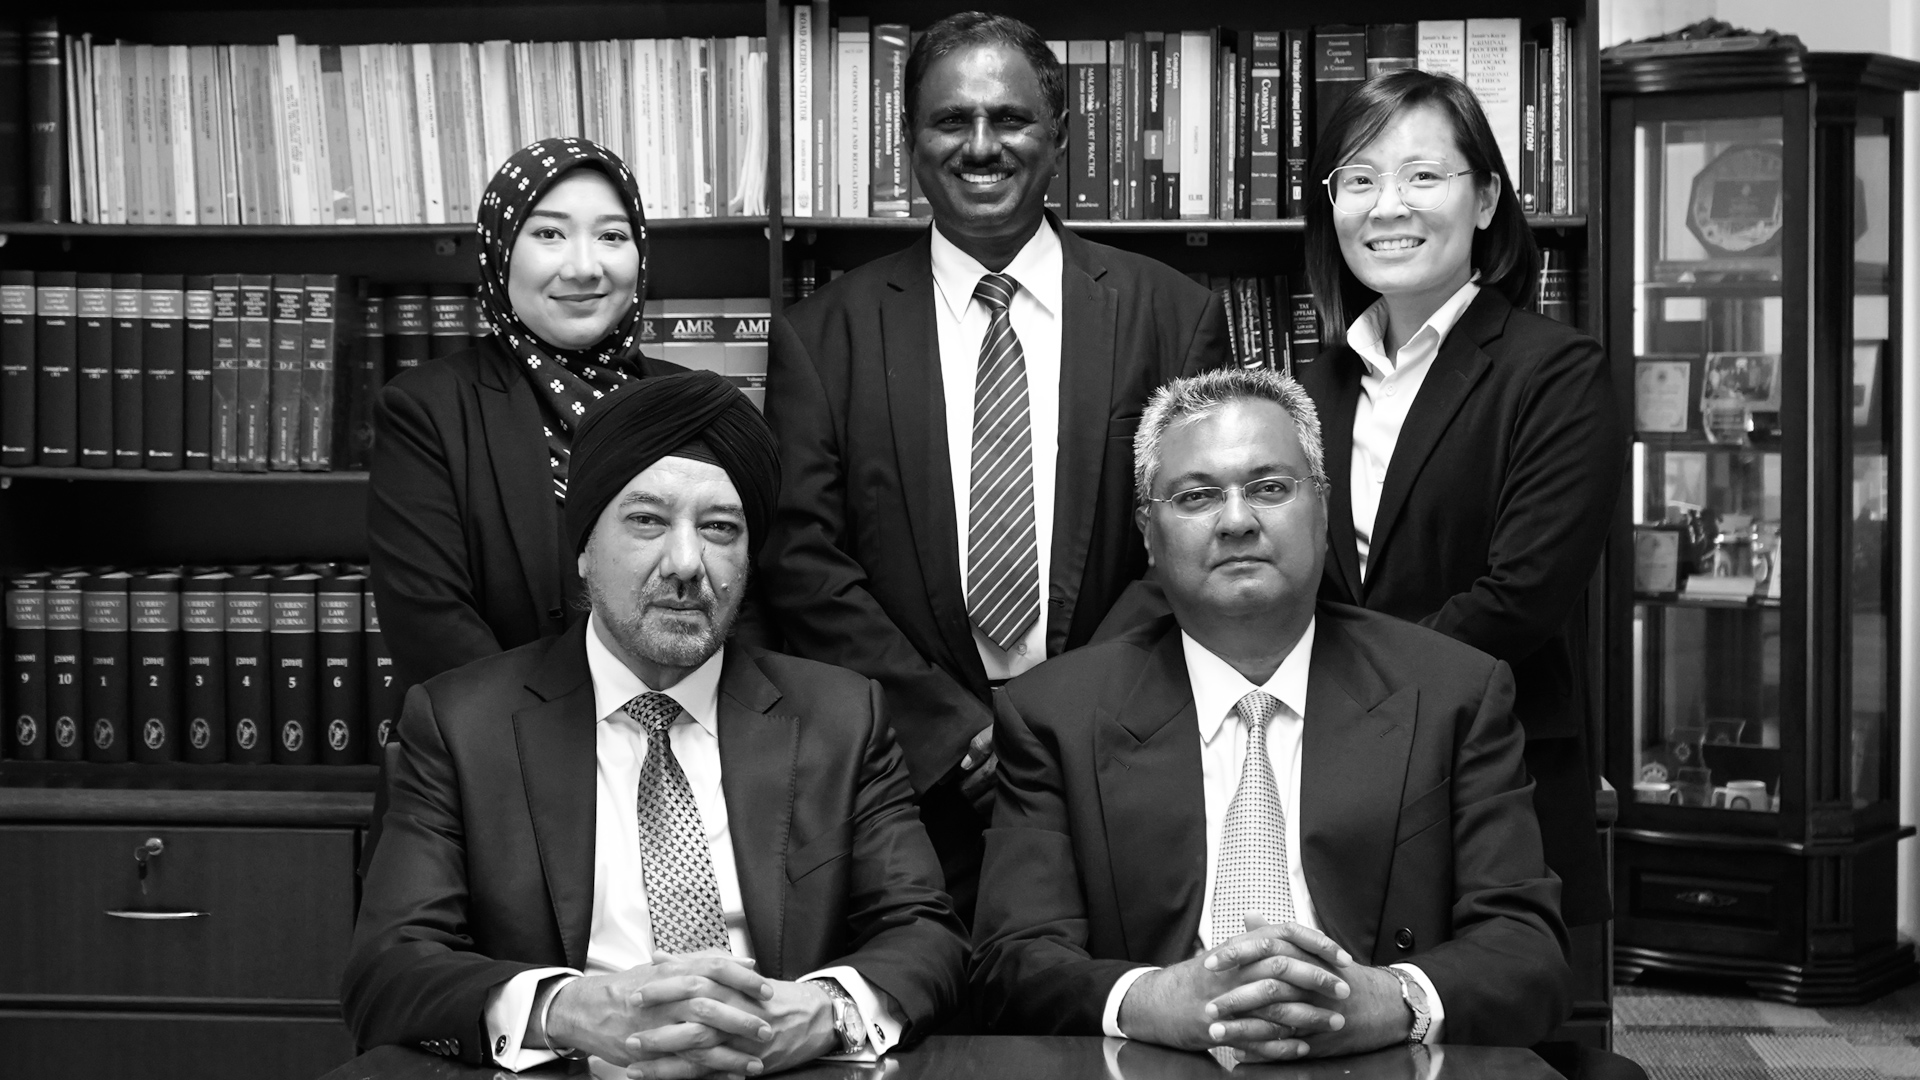
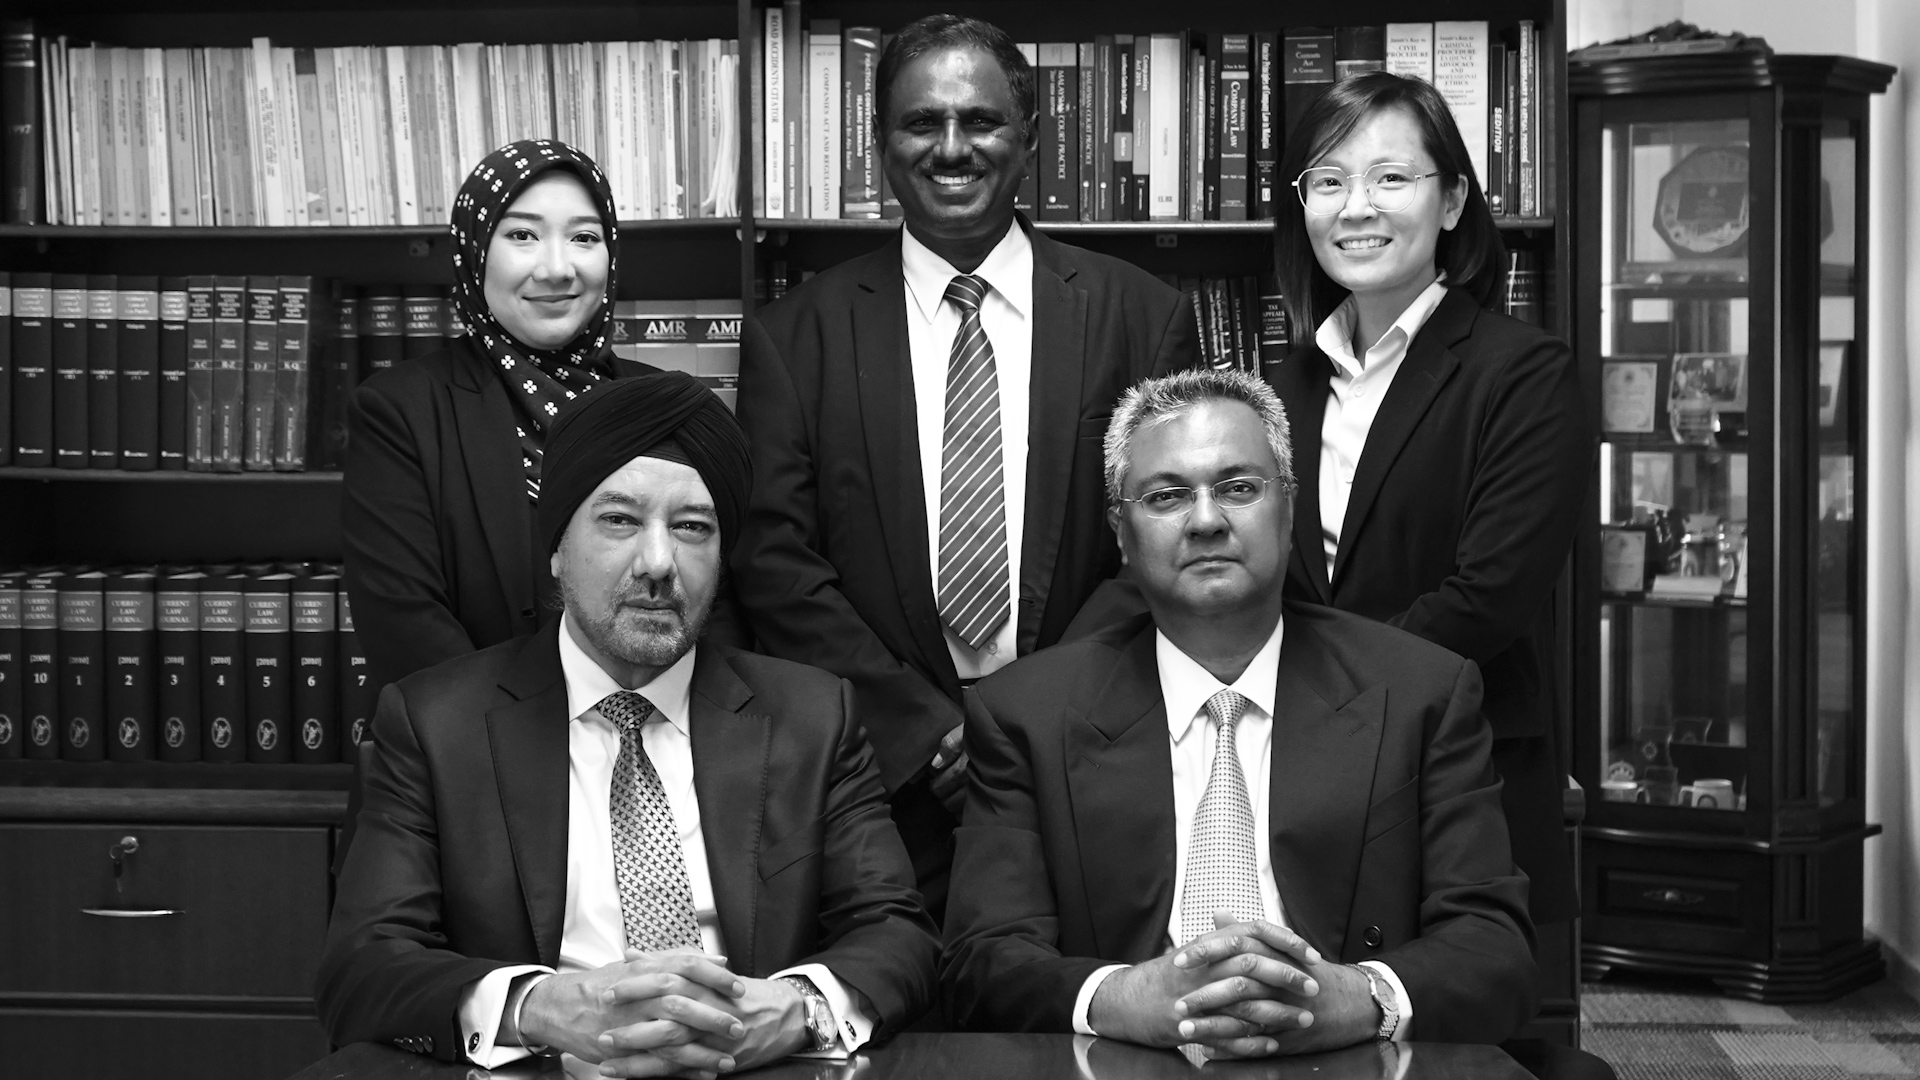
rajpal new images

diff --git a/index.html b/index.html
@@ -6,7 +6,7 @@
   <meta http-equiv="X-UA-Compatible" content="IE=edge">
 
   <title>Rajpal, Firah &amp; Vishnu | Premier Law Firm in Kuala Lumpur</title>
-  <meta name="description" content="Expert criminal lawyer in Kuala Lumpur. Criminal and civil litigation at all levels of court, plus corporate advisory, conveyancing, and probate. Book a Consultation today.">
+  <meta name="description" content="Premier Criminal and Civil litigation lawyers in Kuala Lumpur. Litigation at every level of the Malaysian courts, plus corporate advisory, conveyancing, and probate. Book a Consultation today.">
   <meta name="robots" content="index, follow, max-image-preview:large">
   <meta name="theme-color" content="#1a1a1a">
 
@@ -19,7 +19,7 @@
   <link rel="sitemap" type="application/xml" title="Sitemap" href="https://[yourdomain]/sitemap.xml">
   <meta property="og:type" content="website">
   <meta property="og:title" content="Rajpal, Firah &amp; Vishnu | Premier Law Firm in Kuala Lumpur">
-  <meta property="og:description" content="Expert criminal lawyer in Kuala Lumpur. Criminal and civil litigation at all court levels, plus corporate advisory, conveyancing, and probate. Book a Consultation.">
+  <meta property="og:description" content="Premier Criminal and Civil litigation lawyers at every level of the Malaysian courts. Corporate advisory, conveyancing, and probate. Book a Consultation.">
   <meta property="og:image" content="https://[yourdomain]/assets/og-image.jpg">
   <meta property="og:url" content="https://[yourdomain]/">
   <meta property="og:site_name" content="Rajpal, Firah &amp; Vishnu">
@@ -27,7 +27,7 @@
   <!-- Twitter/X -->
   <meta name="twitter:card" content="summary_large_image">
   <meta name="twitter:title" content="Rajpal, Firah &amp; Vishnu | Premier Law Firm">
-  <meta name="twitter:description" content="Expert criminal lawyer in Kuala Lumpur. Book a Consultation today.">
+  <meta name="twitter:description" content="Premier Criminal and Civil litigation lawyers in Kuala Lumpur. We fight for outcomes that matter.">
   <meta name="twitter:image" content="https://[yourdomain]/assets/og-image.jpg">
 
   <!-- Favicon -->
@@ -189,7 +189,7 @@
       <div class="hero__content container">
         <h1 class="hero__headline">Rajpal<br>Firah<br>Vishnu</h1>
         <p class="hero__subheadline">
-          Premier criminal lawyer. Criminal and civil litigation at every level of the Malaysian courts.
+          Premier Criminal and Civil litigation lawyers at every level of the Malaysian courts.
           We fight for outcomes that matter.
         </p>
         <div class="hero__cta-group">
@@ -211,7 +211,7 @@
         <div class="section-header">
           <h2 class="section-title">How We Can Help</h2>
           <p class="section-subtitle">
-            We are courtroom lawyers. Criminal and civil litigation at every level of the Malaysian courts,
+            We are courtroom lawyers. Criminal and Civil litigation at every level of the Malaysian courts,
             from the Magistrates' and Sessions Courts through the High Court, Court of Appeal, and Federal Court.
           </p>
         </div>

diff --git a/ms/index.html b/ms/index.html
@@ -4,7 +4,7 @@
   <meta charset="UTF-8">
   <meta name="viewport" content="width=device-width, initial-scale=1.0">
   <title>Rajpal, Firah &amp; Vishnu | Firma Guaman Terkemuka di Kuala Lumpur</title>
-  <meta name="description" content="Khidmat guaman pakar di Kuala Lumpur. Rajpal, Firah &amp; Vishnu pakar dalam litigasi sivil, undang-undang korporat, undang-undang keluarga dan konveyans. Tempah perundingan hari ini.">
+  <meta name="description" content="Peguam litigasi Jenayah dan Sivil terkemuka di Kuala Lumpur. Litigasi di setiap peringkat mahkamah Malaysia, serta nasihat korporat, konveyans, dan probet. Tempah perundingan hari ini.">
   <meta name="robots" content="index, follow">
 
   <!-- hreflang: reciprocal links required on every language version -->
@@ -16,7 +16,7 @@
   <!-- Open Graph (Malay) -->
   <meta property="og:type"        content="website">
   <meta property="og:title"       content="Rajpal, Firah &amp; Vishnu | Firma Guaman Terkemuka">
-  <meta property="og:description" content="Khidmat guaman pakar di Kuala Lumpur. Tempah perundingan.">
+  <meta property="og:description" content="Peguam litigasi Jenayah dan Sivil terkemuka di setiap peringkat mahkamah Malaysia. Tempah perundingan.">
   <meta property="og:image"       content="https://[yourdomain]/assets/og-image.jpg">
   <meta property="og:url"         content="https://[yourdomain]/ms/">
   <meta property="og:locale"      content="ms_MY">
@@ -24,7 +24,7 @@
   <!-- Twitter/X -->
   <meta name="twitter:card"        content="summary_large_image">
   <meta name="twitter:title"       content="Rajpal, Firah &amp; Vishnu | Firma Guaman Terkemuka">
-  <meta name="twitter:description" content="Khidmat guaman pakar di Kuala Lumpur. Tempah perundingan hari ini.">
+  <meta name="twitter:description" content="Peguam litigasi Jenayah dan Sivil terkemuka di Kuala Lumpur. Kami berjuang untuk keputusan yang bermakna.">
   <meta name="twitter:image"       content="https://[yourdomain]/assets/og-image.jpg">
 
   <link rel="icon" type="image/png" href="../assets/favicon-gold.png">
@@ -96,7 +96,7 @@
       <div class="hero__content container">
         <h1 class="hero__headline">Rajpal<br>Firah<br>Vishnu</h1>
         <p class="hero__subheadline">
-          Peguam jenayah terkemuka. Litigasi jenayah dan sivil di setiap peringkat mahkamah Malaysia.
+          Peguam litigasi Jenayah dan Sivil terkemuka di setiap peringkat mahkamah Malaysia.
           Kami berjuang untuk keputusan yang bermakna.
         </p>
         <div class="hero__cta-group">
@@ -117,7 +117,7 @@
         <div class="section-header">
           <h2 class="section-title">Bagaimana Kami Boleh Membantu</h2>
           <p class="section-subtitle">
-            Kami adalah peguam mahkamah. Litigasi jenayah dan sivil di setiap peringkat mahkamah Malaysia,
+            Kami adalah peguam mahkamah. Litigasi Jenayah dan Sivil di setiap peringkat mahkamah Malaysia,
             dari Mahkamah Majistret dan Mahkamah Sesyen hingga Mahkamah Tinggi, Mahkamah Rayuan, dan Mahkamah Persekutuan.
           </p>
         </div>
